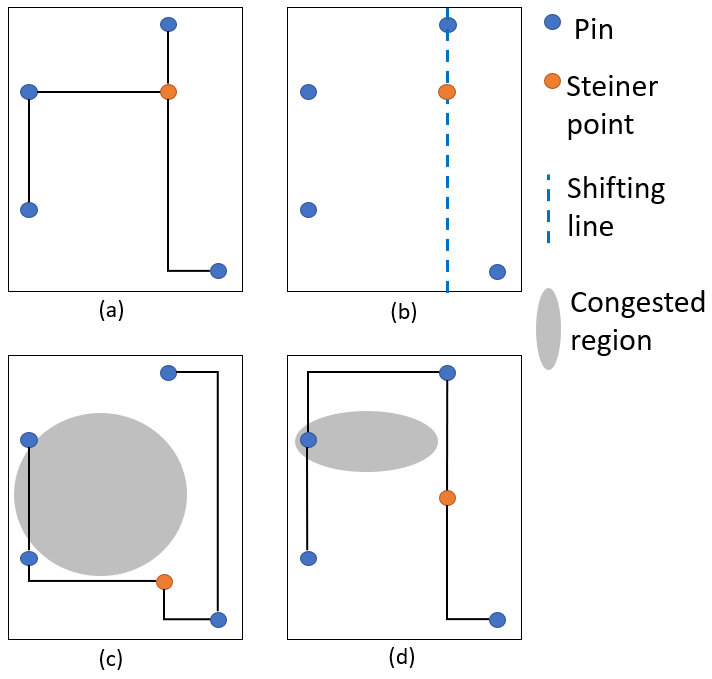
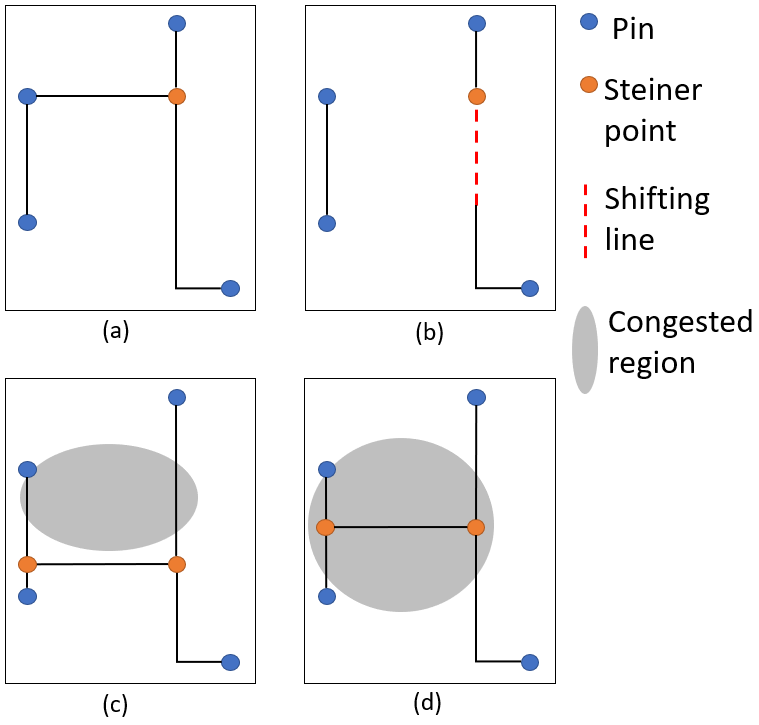
Finalized paper

diff --git a/doc/Methodology.tex b/doc/Methodology.tex
@@ -28,20 +28,28 @@ We use NTHU-Route 2.0 \cite{NTHU} as the platform to implement our routability m
     \label{fig:2pinusage}
 \end{figure}
 
-If $n$ edges constitute path $i$, and let $M(e)$ be the maximum capacity for edge e, then the total availability $A(i)$ for path $i$ is $A(i)=\sum_{e=0}^{n}M(e)$. Following the computation of the total availability of each of the potential paths, the probability of each path is calculated. This calculation is done by obtaining the sum of the total availability of all potential paths between the two pins as shown in \Cref{fig:2pinusage}.
+If $n$ edges constitute path $i$, and let $M(e)$ be the maximum capacity for edge e, then the total availability $A(i)$ for path $i$ is $A(i)=\sum_{e=0}^{n}M(e)$. Note that for any edge $e$ in path $i$, if $M(e)=0$ then entire path is eliminated from candidacy. Following the computation of the total availability of each of the potential paths, the probability of each path is calculated. This calculation is done by obtaining the sum of the total availability of all potential paths between the two pins as shown in \Cref{fig:2pinusage}.
 If there are k paths, the probability of path $p(i)=\frac{A(i)}{\sum^{k}A}$
 
 Each edge $j$ in path $i$ is assigned a probability $p(i)$ which reflects its likelihood for being used in global routing. Since an edge can belong to more than one potential path, the usage assigned to each edge is a sum of all the path probabilities of which this chosen edge is a part of. Thus, we acquire probabilistic information for each edge to be used in global routing. In an edge-based analyses, this feature provides us valuable information for the routing probability of an edge from a standalone perspective.
+
+\begin{figure}[htbp]
+    \centerline{\includegraphics[height=1.5in, width=3in]{2pinexample}}
+    \caption{(a) A design grid with blockage and two possible paths (b) Corresponding routing graph and related edge capacity}
+    \label{fig:2pinexample}
+\end{figure}
+An simple example is shown in \cref{fig:2pinexample}, there are two possible paths, P1 and P2, for routing the pin-pair, where two pins are located at the lower left and upper right corners. From the routing graph we obtain $A(p1)=106$ and $A(p2)=108$. So the probability of choosing path P1 is $p(P1)=106/(106+108)=0.49$, therefore $p(p2)=0.51$. The final usage assigned for edges passed by these two paths will then be increase either 0.49 or 0.51, accordingly.
 \end{itemize}
 
 \subsection{Routability-Driven Edge Shifting}
-We use our routability information for the edge shifting technique in \cite{fastroute}. As is demonstrated in FLUTE\Cref{fig:edgeshifting}, the congestion map heavily affects the structure of Steiner tree hence the actual routing. The quality of the congestion map as the guidance has to be taken care of.
+We use our routability information to guide the edge shifting technique in FLUTE\cite{fastroute}. The congestion map heavily affects the structure of Steiner tree hence the actual routing. Therefore, the quality of the congestion map directly affects that of the tree topology.
+
+To perform shifting is to move Steiner points. The edge that connects at least one Steiner point is selected. The moving direction for the Steiner point is perpendicular to the edge, and the allowed range for moving the said Steiner point is determined by all other pins and points that also connect to the two endpoints of the shifting edge, whichever is shorter. As is demonstrated in \Cref{fig:edgeshifting}, the shifting edge is horizontal, the Steiner point is moving in a vertical direction, and the range of moving is determined by the shortest path which previously connected the pin of the shifting edge and another pin. 
 \begin{figure}[htbp]
-    \centerline{\includegraphics[height=2.1in, width=3in]{edgeshifting}}
+    \centerline{\includegraphics[height=1.8in, width=2.7in]{edgeshifting}}
     \caption{(a) The initial Steiner tree (b) Allowed moving area for Steiner point (c)(d) Modified tree structures based on different congestion map}
     \label{fig:edgeshifting}
 \end{figure}
-
 
 \subsection{Prediction Model Embedded Routability Optimization}
 After the features are extracted, we use MARS \cite{MARS} to predict routability. The reasons of selecting MARS are as follows: 1) Interactions between independent parameters can be captured. 2) Non-linearity can be modeled. 3) Tunning is easy, and in most cases, not needed. 

diff --git a/doc/Preliminaries.tex b/doc/Preliminaries.tex
@@ -19,10 +19,9 @@ Global routing is performed on a grid which is the logical graph representation 
 The graph \emph{G} used for global routing needs to capture the capacities of the routing regions. The capacity of an edge \emph{e} $\in$ \emph{G} between two vertices \emph{u} and \emph{v} is defined as the maximum number of available routing tracks between the routing regions of \emph{u} and \emph{v}. 
 
 High precision capacity metric can be complex and possible in practice, such track-based capacity can be extended to consider specific routing elements such as blockages, vias and fixed pins. Such elements have different penalties to their respective edge capacity. For example, blockages may consume the capacity of an entire edge. 
-\subsubsection{Congestion}
-If the total usage of one edge is larger than its capacity, then the tile containing that edge is considered to be congested, with a congestion value defined as $c(e)=\text{usage}(e)/\text{capacity}(e)$. Detailed routing would not be able to route all nets assigned to congested areas due to lack of routing resources. However, there is generally a degree of tolerance as a detailed router may be able to spread the wires from the congested tiles to adjacent less-congested tiles, if those are available.
+
 \subsubsection{Overflow}
-Similarly to congestion, when the usage of a tile is greater than its capacity, the amount of overhead is referred to as {\it overflow}, $of(e)=\text{usage}(e)-\text{capacity}(e)$.
+If the total usage of one edge is larger than its capacity, then the tile containing that edge is considered to be congested, and the amount of overhead is referred to as {\it overflow}, $of(e)=\text{usage}(e)-\text{capacity}(e)$. Detailed routing would not be able to route all nets assigned to congested areas due to lack of routing resources. However, there is generally a degree of tolerance as a detailed router may be able to spread the routes from the congested edges to adjacent less-congested ones, if those are available. Not only do global routing paths contribute to the usage of edge, other factors, such as local pins, could cause an overflow as well by decreasing edge capacity.
 % \subsubsection{Wirelength}
 % The minimization of wirelength is another important metric for global routing. Decreased wirelength implies smaller power consumption and delays, which are two key factors for  performance-driven optimization. Inherently, congestion minimization conflicts with wirelength minimization, because detours may be introduced to avoid congested regions and that leads to longer wirelength. Therefore, the trade-off between these features has to be carefully tuned based on the requirements of circuit design. 
 

diff --git a/doc/Result.tex b/doc/Result.tex
@@ -67,7 +67,7 @@ As is shown in \Cref{tab:treequality}, maximum overflow (\text{Max\_OF}) has dec
     \begin{tabular}{c|c|c|c|c|c|c|c|c|c|c|c}
         \toprule
         \multirow{2}{*}{Benchmark} & \multicolumn{6}{c|}{NTHU-Route 2.0}                                     & \multicolumn{5}{c}{NTHU-Route 2.0 with Our Work}      \\ \cline{2-12} 
-                           & \#Iteration & Max\_OF & Total\_OF & WL       & Time(s) & Time \%Improv. & \#Iteration & Max\_OF & Total\_OF & WL       & Time(s) \\ \hline
+                           & \#Iteration & Max\_OF & Total\_OF & WL       & Time(s) & Time \%Change & \#Iteration & Max\_OF & Total\_OF & WL       & Time(s) \\ \hline
         adaptec1                   & 11          & 2       & 170       & 3595770  & 651.60  & +1\%           & 11          & 2       & 166       & 3593832  & 647.43  \\ \hline
         adaptec2                   & 12          & 2       & 197       & 3307228  & 224.24  & 0\%            & 12          & 2       & 175       & 3306489  & 223.94  \\ \hline
         adaptec3                   & 8           & 2       & 177       & 9471843  & 608.27  & +8\%           & 8           & 2       & 128       & 9670341  & 561.43  \\ \hline
